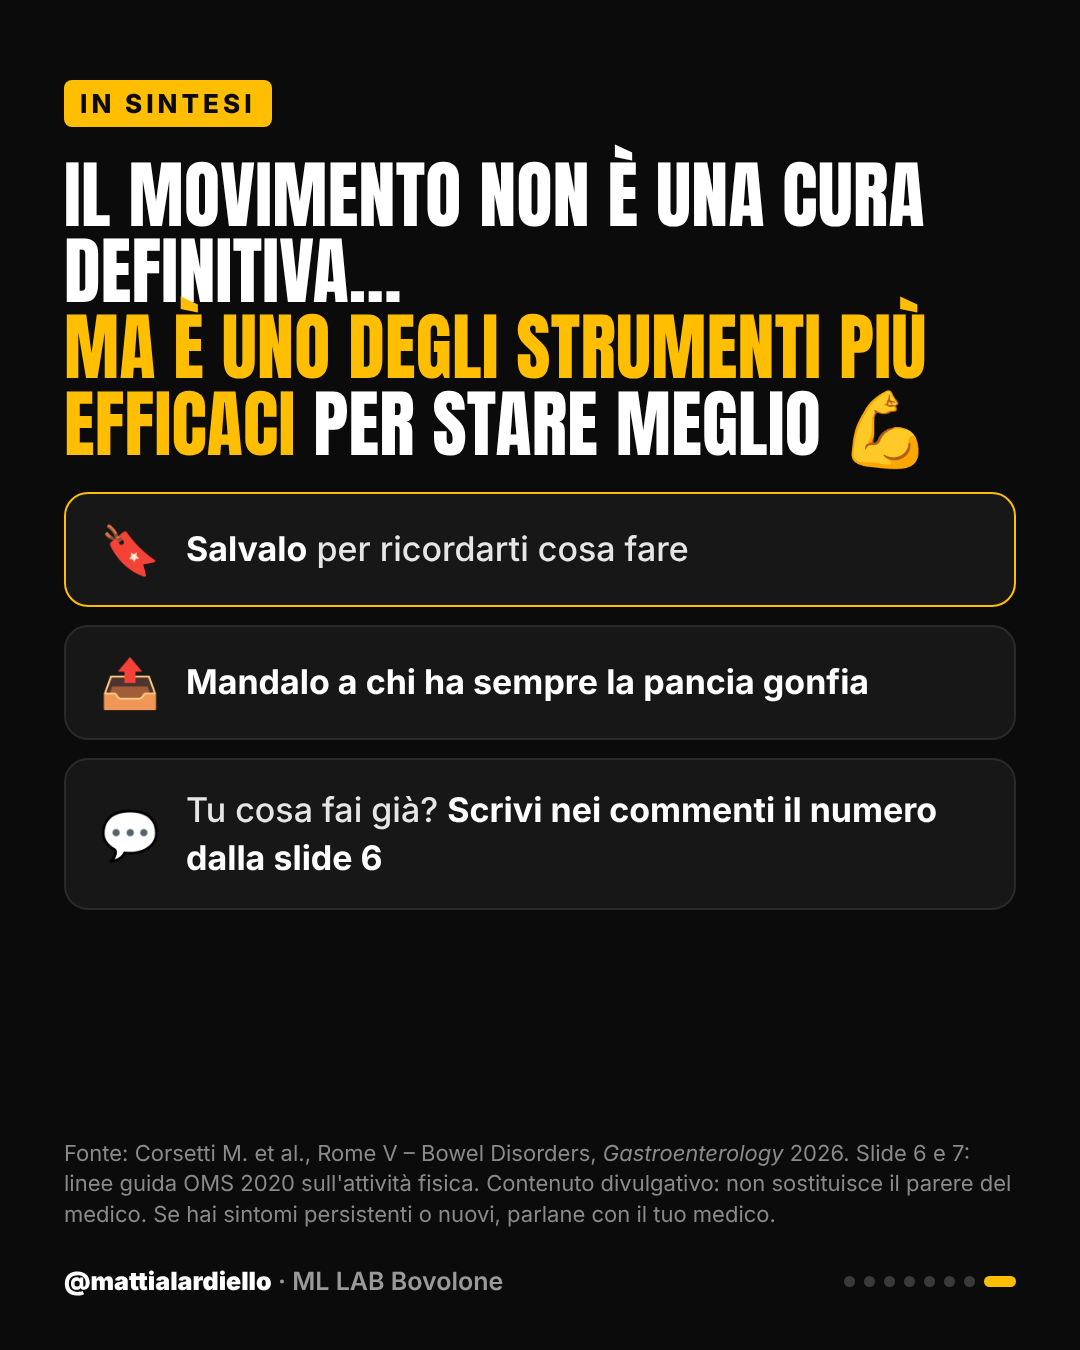
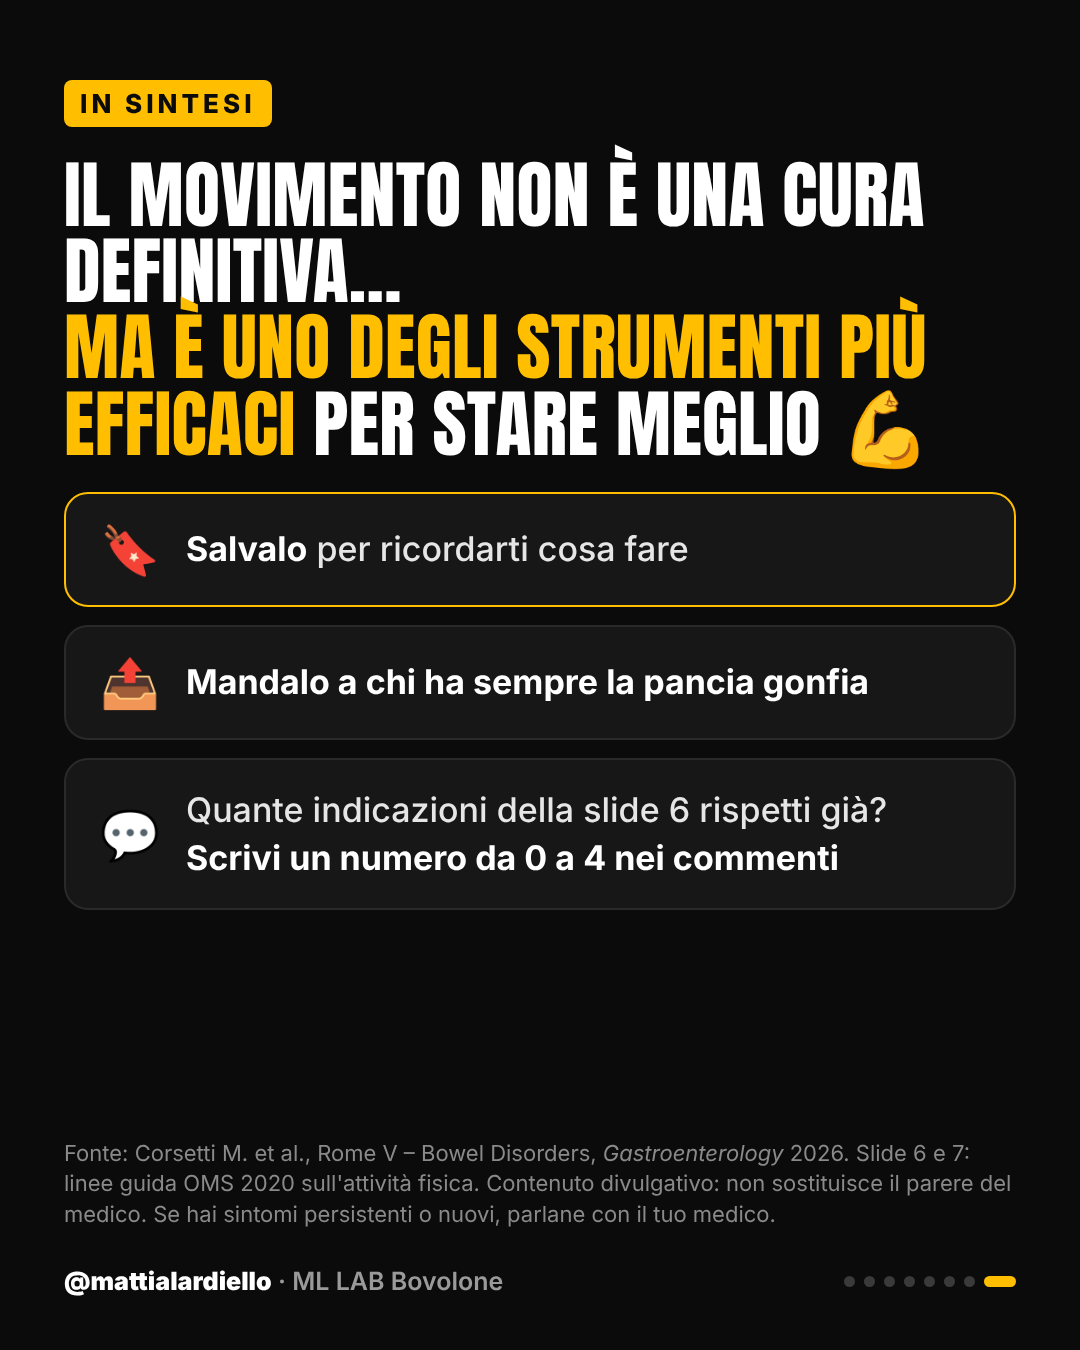
Intestino: domanda nei commenti allineata a slide 6
Claude-Session: https://claude.ai/code/session_014pNAwoV69TZpDWEUzr7pF6

Changed region(s): [[0.1528, 0.5911, 0.8861, 0.6533]]

diff --git a/contenuti-instagram/README.md b/contenuti-instagram/README.md
@@ -176,7 +176,7 @@ Nei DM / nel modulo indicare chiaramente che la consulenza è a pagamento, prima
 >
 > 📲 Vuoi approfondire? Nel mio **canale broadcast** trovi il link all'articolo che ho scritto su questo tema. Lo trovi nel mio profilo, sotto la bio.
 >
-> Tu quante di queste indicazioni rispetti già? Scrivimi un numero da 0 a 4 nei commenti 👇
+> Quante delle 4 indicazioni della slide 6 rispetti già? Scrivimi un numero da 0 a 4 nei commenti 👇
 > 🔖 Salvalo e mandalo a chi ha sempre la pancia gonfia.
 >
 > _Contenuto divulgativo di un personal trainer: non sostituisce il parere del medico. Fonti: Corsetti M. et al., Rome V – Bowel Disorders, Gastroenterology 2026; WHO guidelines on physical activity and sedentary behaviour, 2020._
